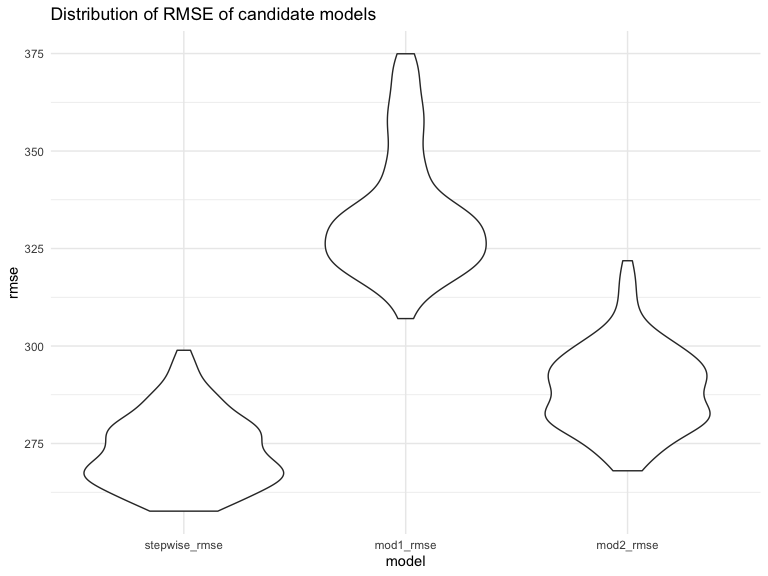
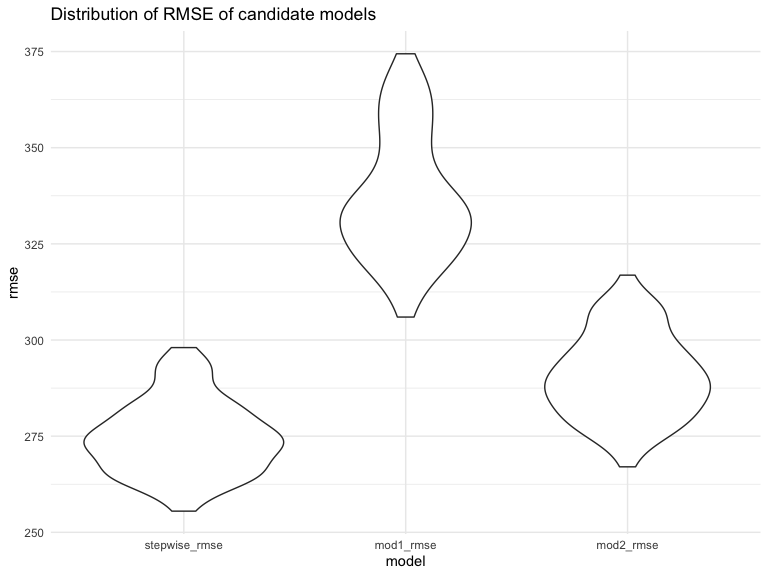
added some more texts

diff --git a/p8105_hw6_zw2899.md b/p8105_hw6_zw2899.md
@@ -332,6 +332,10 @@ bwt_data %>%
 ```
 
 <img src="p8105_hw6_zw2899_files/figure-gfm/Residual vs fitted value for the proposed model-1.png" width="90%" />
+We can see that the residuals are about constant for fitted values from
+1000 and up. However, the residuals for fitted values smaller than 1000
+seem to be large and skewed toward the positive side, indicating
+possible effects of outliers.
 
 Compare the above model with the following two using cross validation:
 
@@ -411,16 +415,16 @@ cv_df
     ## # A tibble: 100 × 9
     ##    train    test     .id   stepwise_fit mod1_fit mod2_…¹ stepw…² mod1_…³ mod2_…⁴
     ##    <list>   <list>   <chr> <list>       <list>   <list>    <dbl>   <dbl>   <dbl>
-    ##  1 <tibble> <tibble> 001   <lm>         <lm>     <lm>       258.    322.    273.
-    ##  2 <tibble> <tibble> 002   <lm>         <lm>     <lm>       276.    336.    298.
-    ##  3 <tibble> <tibble> 003   <lm>         <lm>     <lm>       286.    332.    301.
-    ##  4 <tibble> <tibble> 004   <lm>         <lm>     <lm>       277.    360.    297.
-    ##  5 <tibble> <tibble> 005   <lm>         <lm>     <lm>       295.    369.    312.
-    ##  6 <tibble> <tibble> 006   <lm>         <lm>     <lm>       268.    331.    284.
-    ##  7 <tibble> <tibble> 007   <lm>         <lm>     <lm>       271.    330.    289.
-    ##  8 <tibble> <tibble> 008   <lm>         <lm>     <lm>       262.    324.    277.
-    ##  9 <tibble> <tibble> 009   <lm>         <lm>     <lm>       267.    323.    283.
-    ## 10 <tibble> <tibble> 010   <lm>         <lm>     <lm>       280.    344.    299.
+    ##  1 <tibble> <tibble> 001   <lm>         <lm>     <lm>       269.    340.    283.
+    ##  2 <tibble> <tibble> 002   <lm>         <lm>     <lm>       282.    362.    300.
+    ##  3 <tibble> <tibble> 003   <lm>         <lm>     <lm>       279.    326.    297.
+    ##  4 <tibble> <tibble> 004   <lm>         <lm>     <lm>       285.    334.    303.
+    ##  5 <tibble> <tibble> 005   <lm>         <lm>     <lm>       293.    362.    310.
+    ##  6 <tibble> <tibble> 006   <lm>         <lm>     <lm>       273.    337.    285.
+    ##  7 <tibble> <tibble> 007   <lm>         <lm>     <lm>       281.    344.    299.
+    ##  8 <tibble> <tibble> 008   <lm>         <lm>     <lm>       274.    337.    289.
+    ##  9 <tibble> <tibble> 009   <lm>         <lm>     <lm>       267.    324.    282.
+    ## 10 <tibble> <tibble> 010   <lm>         <lm>     <lm>       275.    333.    290.
     ## # … with 90 more rows, and abbreviated variable names ¹mod2_fit,
     ## #   ²stepwise_rmse, ³mod1_rmse, ⁴mod2_rmse
 
